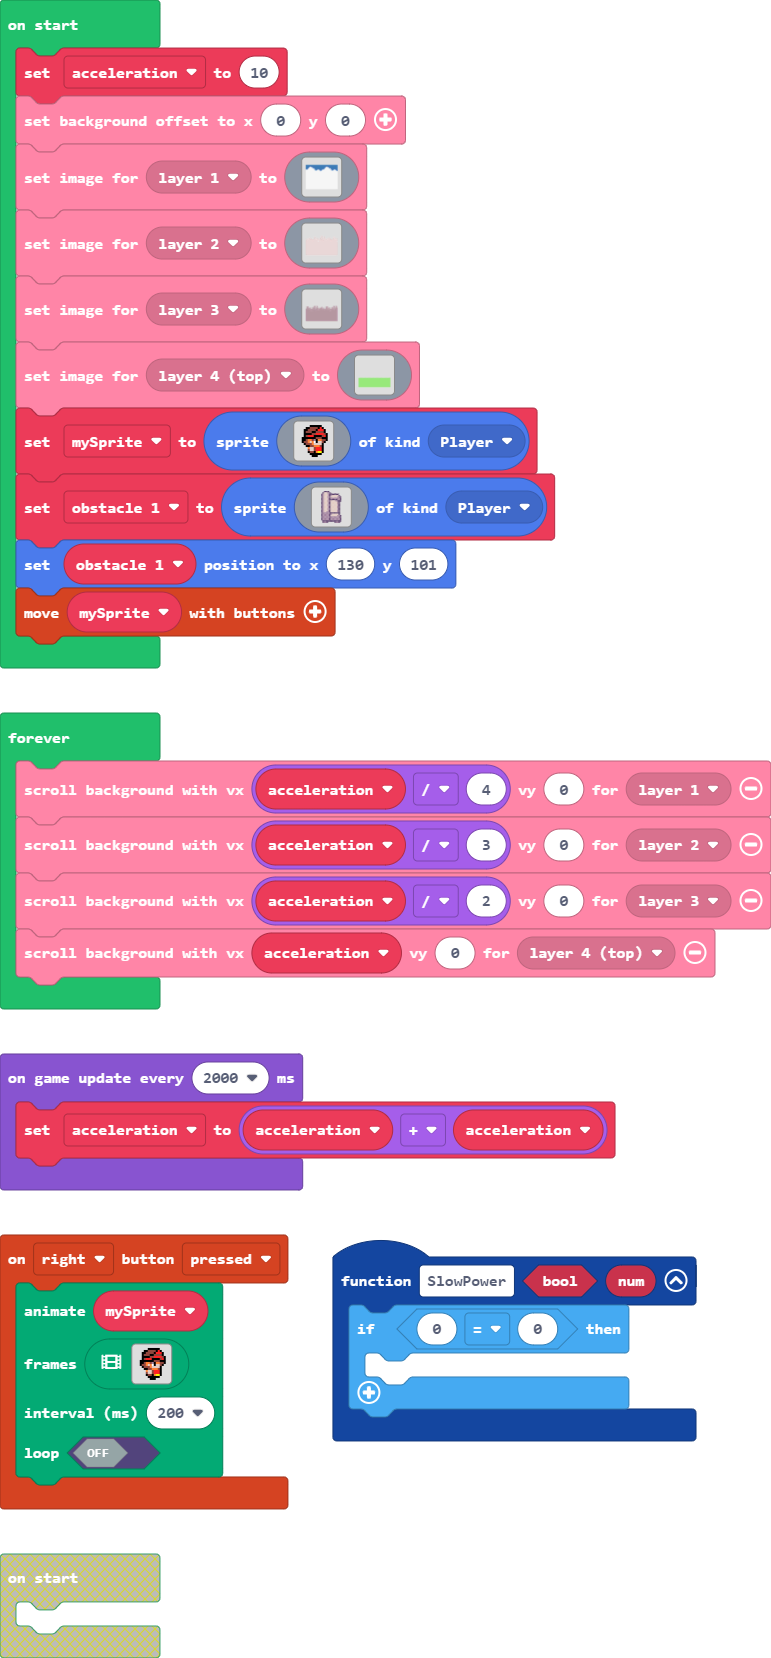
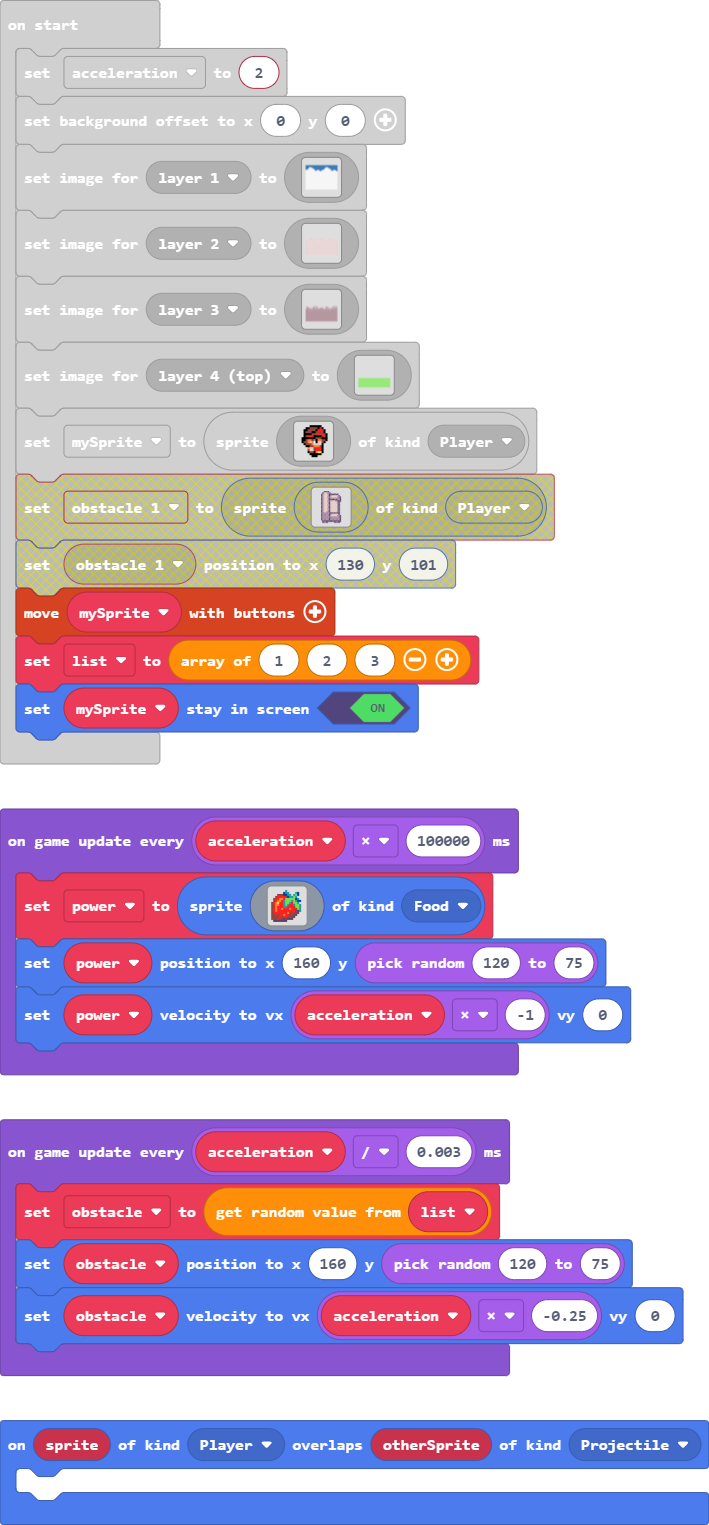
Update main.blocks, main.ts

diff --git a/main.ts b/main.ts
@@ -74,13 +74,18 @@ controller.right.onEvent(ControllerButtonEvent.Pressed, function () {
     false
     )
 })
+sprites.onOverlap(SpriteKind.Player, SpriteKind.Projectile, function (sprite, otherSprite) {
+	
+})
 function SlowPower (bool: boolean, num: number) {
     if (0 == 0) {
     	
     }
 }
+let power2: Sprite = null
+let obstacle: Sprite = null
 let mySprite: Sprite = null
-let acceleration = 10
+let acceleration = 2
 scroller.setBackgroundScrollOffset(0, 0)
 scroller.setLayerImage(scroller.BackgroundLayer.Layer1, img`
     8888888888888888888888888888888888888888888888888888888888888888888888888888888888888888888888888888888888888888888888888888888888888888888888888888888888888888
@@ -588,36 +593,38 @@ mySprite = sprites.create(img`
     . . . . . . f f f f f f . . . . 
     . . . . . . . f f f . . . . . . 
     `, SpriteKind.Player)
-let obstacle_1 = sprites.create(img`
-    ..cccc.........
-    .cdddbc........
-    cbdddbccccccc..
-    cbdddbcbdddddc.
-    cbdddbcdddddbbc
-    cbdddbcbbbbbbbc
-    cbdddbccccccbbc
-    cbdddbcddddbccc
-    cbdddbcdddddbc.
-    cbdddbcdddddbc.
-    cbdddbcdddddbc.
-    cbdddbcdddddbc.
-    cbdddbcdddddbc.
-    cbdddbcdddddbc.
-    cbdddbcdddddbc.
-    cbddbbcdddddbc.
-    cbbbbbcccccccc.
-    cbbbbbcbdddddc.
-    cbbbbbcdddddbbc
-    cbbbbbcbbbbbbbc
-    cbbbbbcbbbbbbbc
-    cbbbbbcbbbbbbbc
-    .cccccccccccccc
-    .cbbc.....cbbc.
-    `, SpriteKind.Player)
-obstacle_1.setPosition(130, 101)
 controller.moveSprite(mySprite)
+let list = [1, 2, 3]
+mySprite.setStayInScreen(true)
+game.onUpdateInterval(acceleration / 0.003, function () {
+    obstacle = list._pickRandom()
+    obstacle.setPosition(160, randint(120, 75))
+    obstacle.setVelocity(acceleration * -0.25, 0)
+})
 game.onUpdateInterval(2000, function () {
     acceleration = acceleration + acceleration
+})
+game.onUpdateInterval(acceleration * 100000, function () {
+    power2 = sprites.create(img`
+        . . . . . . . 6 . . . . . . . . 
+        . . . . . . 8 6 6 . . . 6 8 . . 
+        . . . e e e 8 8 6 6 . 6 7 8 . . 
+        . . e 2 2 2 2 e 8 6 6 7 6 . . . 
+        . e 2 2 4 4 2 7 7 7 7 7 8 6 . . 
+        . e 2 4 4 2 6 7 7 7 6 7 6 8 8 . 
+        e 2 4 5 2 2 6 7 7 6 2 7 7 6 . . 
+        e 2 4 4 2 2 6 7 6 2 2 6 7 7 6 . 
+        e 2 4 2 2 2 6 6 2 2 2 e 7 7 6 . 
+        e 2 4 2 2 4 2 2 2 4 2 2 e 7 6 . 
+        e 2 4 2 2 2 2 2 2 2 2 2 e c 6 . 
+        e 2 2 2 2 2 2 2 4 e 2 e e c . . 
+        e e 2 e 2 2 4 2 2 e e e c . . . 
+        e e e e 2 e 2 2 e e e c . . . . 
+        e e e 2 e e c e c c c . . . . . 
+        . c c c c c c c . . . . . . . . 
+        `, SpriteKind.Food)
+    power2.setPosition(160, randint(120, 75))
+    power2.setVelocity(acceleration * -1, 0)
 })
 forever(function () {
     scroller.scrollBackgroundWithSpeed(acceleration / 4, 0, scroller.BackgroundLayer.Layer1)
